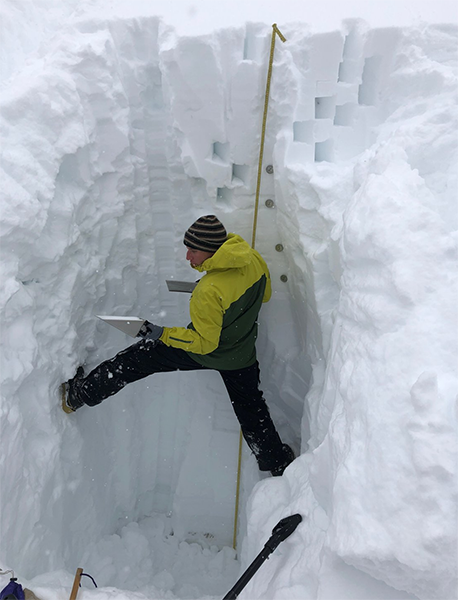
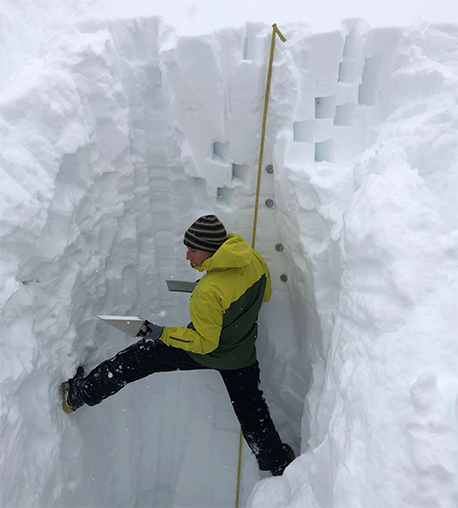
try to fix issue with aspect ratio on image sizing

diff --git a/src/components/MeasuringSWE.vue b/src/components/MeasuringSWE.vue
@@ -17,7 +17,7 @@
     <!-- FIGURE CAPTION -->
     <template v-slot:figureCaption>
       <p>
-        Images of measuring swe.
+        Images of various methods to measure SWE with captions that explain what is being shown. **Seeking images that capture the breadth of field methods in measureing SWE.
       </p>
     </template>
     <!-- EXPLANATION -->

diff --git a/src/components/ImgCarousel.vue b/src/components/ImgCarousel.vue
@@ -112,9 +112,10 @@
     display: block;
     height: 400px;
     width: auto;
+    object-fit: contain;
     img {
       height: 400px; 
-      width: 100%;
+      width: auto;
     }
   }
 </style>
